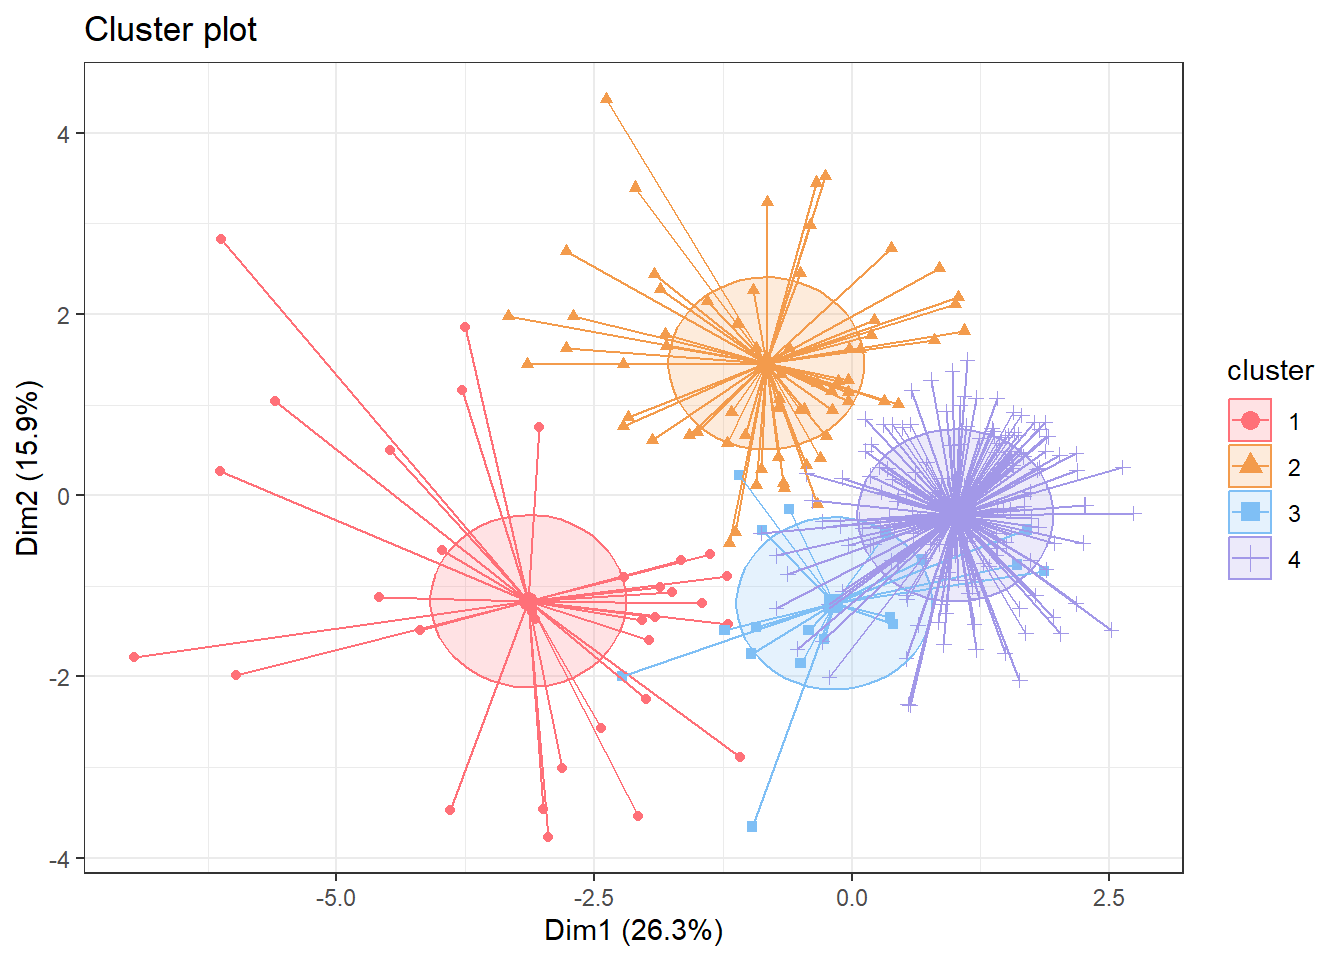
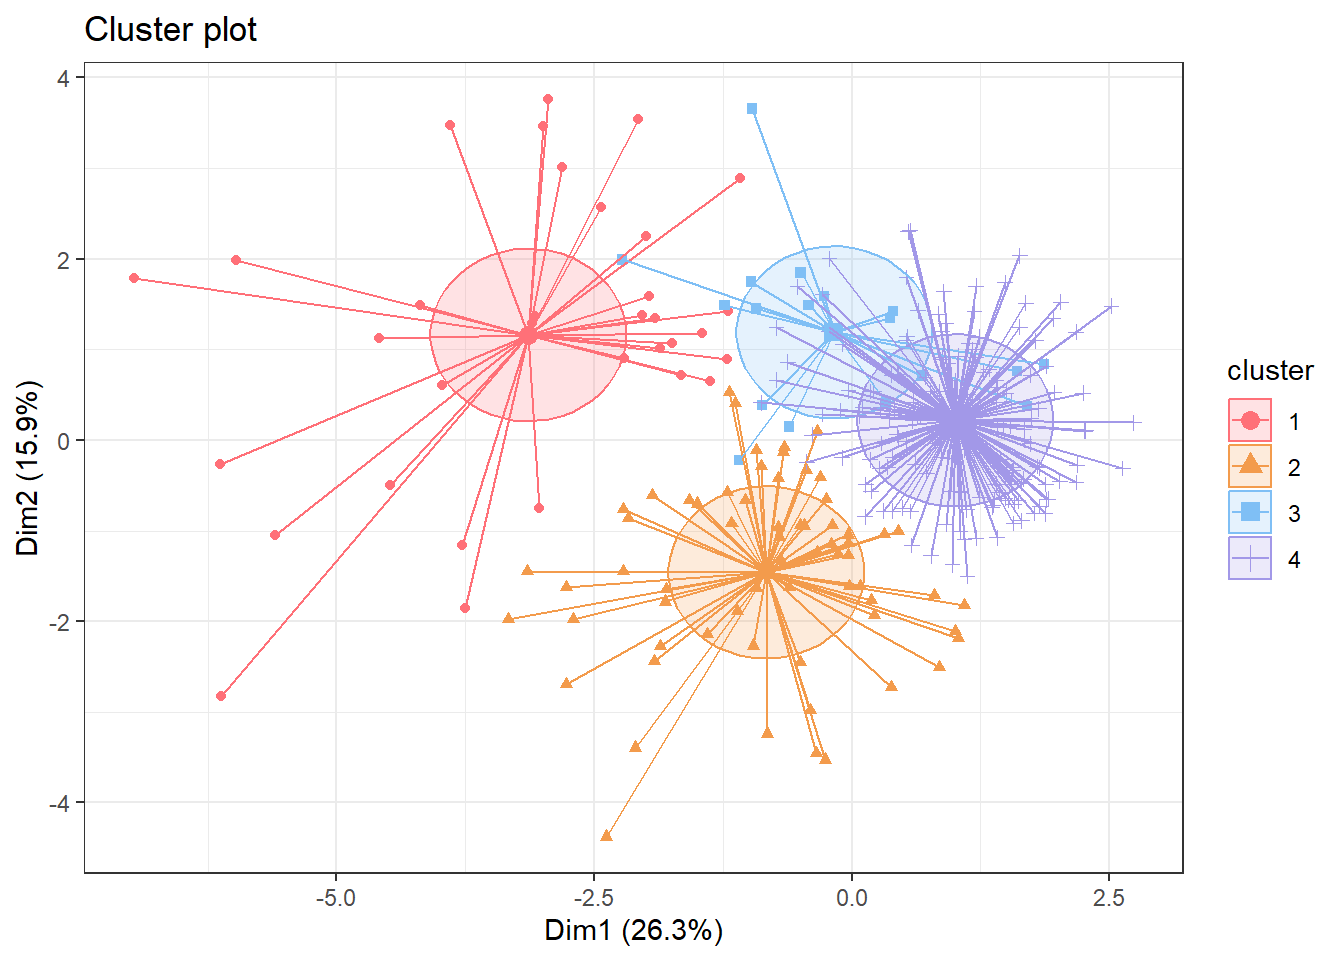
commit finalisimo

diff --git a/Entrega_Clustering.html b/Entrega_Clustering.html
@@ -719,17 +719,17 @@ Dim.11    0.32946          2.99511                   100.00000</code></pre>
 <div class="cell">
 <div class="cell-output cell-output-stdout">
 <pre><code>                  PC1     PC2
-N_Days         0.3585 -0.2066
-Age           -0.1023  0.4465
-Bilirubin     -0.4919 -0.0652
-Cholesterol   -0.2640 -0.4403
-Albumin        0.3257 -0.2734
-Copper        -0.3962  0.0226
-Alk_Phos      -0.1544 -0.2527
-SGOT          -0.3326 -0.2131
-Tryglicerides -0.3010 -0.2445
-Platelets      0.0885 -0.4649
-Prothrombin   -0.2311  0.3154</code></pre>
+N_Days         0.3585  0.2066
+Age           -0.1023 -0.4465
+Bilirubin     -0.4919  0.0652
+Cholesterol   -0.2640  0.4403
+Albumin        0.3257  0.2734
+Copper        -0.3962 -0.0226
+Alk_Phos      -0.1544  0.2527
+SGOT          -0.3326  0.2131
+Tryglicerides -0.3010  0.2445
+Platelets      0.0885  0.4649
+Prothrombin   -0.2311 -0.3154</code></pre>
 </div>
 </div>
 <p>Observemos que la primera componente principal da un peso muy elevado y negativo a la variable <code>Bilirubin</code>.</p>
@@ -795,7 +795,7 @@ Prothrombin   0.15423 0.17348</code></pre>
 <p>Viendo este gráfico parece que clusteriza en función de la contribución de cada muestra a las componentes principales. Como la variable <code>Bilirubin</code> está bien representada por la primera componente principal, es normal que un cluster (círculos rojos) sean las muestras que más aportan a ésta.</p>
 <p>Luego están las muestras azules que corresponden a aquellas que parece que estan representadas por <code>Cholesterol</code> y <code>Platelets</code>.</p>
 <p>A continuación, encontramos las verdes que son las que estan más representadas por <code>Age</code>, que era una de las variables que mejor se representaba por la segunda componente principal.</p>
-<p>Y finalmente, encontramos el grupo lila que son las que estan mas representadas por <code>Albumin</code> que notemos que también contribuye bastante en la primera componente principal</p>
+<p>Y finalmente, encontramos el grupo lila que son las que estan más representadas por <code>Albumin</code> que notemos que también contribuye bastante en la primera componente principal</p>
 </section>
 <section id="conclusiones" class="level1">
 <h1>Conclusiones</h1>
